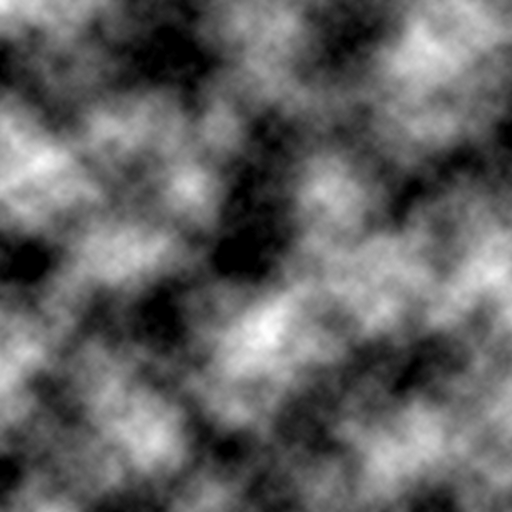
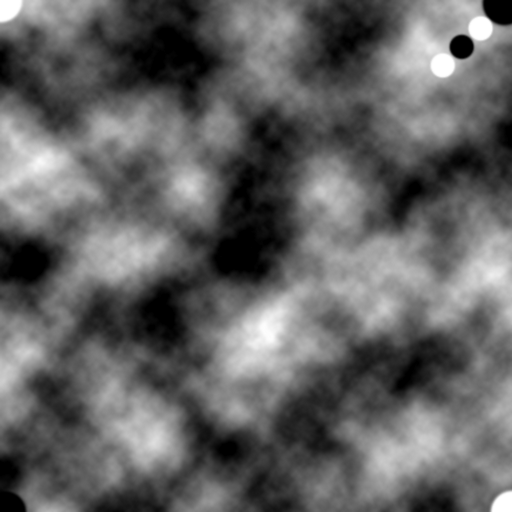
fixy do minimapy

diff --git a/src/hud/window/minimap/MiniMapPanel.cpp b/src/hud/window/minimap/MiniMapPanel.cpp
@@ -17,17 +17,24 @@ void MiniMapPanel::createEmpty() {
 	IntVector2 size = spr->GetSize();
 	Enviroment* env = Game::get()->getEnviroment();
 	uint32_t* data = (uint32_t*)minimap->GetData();
+	int a =minimap->GetHeight();
+
 	int idR = 0;
 	float div = 5;
 	float dy = size.y_;
 	float dx = size.x_;
-	for (short y = 0; y < dy; ++y) {
-		for (short x = 0; x < dx; ++x) {
-			float val = env->getGroundHeightPercent((dy - 1 - y) / dy, x / dx, div);
 
+	float xinc = 1.0f / (size.x_ - 1);
+	float yinc = 1.0f / (size.y_ - 1);
+
+	for (short y = size.y_; y > 0; --y) {
+		for (short x = 0; x < size.x_; ++x) {
+			float val = env->getGroundHeightPercent(y * yinc, x * xinc, div);
+			//std::cout << val << " ";
 			*(data + idR) = 0xFF003000 + unsigned(val) * 0X100;
 			++idR;
 		}
+		//std::cout << std::endl;
 	}
 
 	text->SetData(minimap);

diff --git a/src/camera/FreeCameraBehave.cpp b/src/camera/FreeCameraBehave.cpp
@@ -16,7 +16,7 @@ FreeCameraBehave::~FreeCameraBehave() {
 
 void FreeCameraBehave::translate(bool cameraKeys[], int wheel, float timeStep, float min) {
 	if (cameraKeys[0]) {
-		cameraNode->Translate(Urho3D::Vector3::FORWARD * timeStep);
+		cameraNode->Translate(Urho3D::Vector3::FORWARD * timeStep*5);
 		changed = true;
 	}
 	if (cameraKeys[1]) {
@@ -24,11 +24,11 @@ void FreeCameraBehave::translate(bool cameraKeys[], int wheel, float timeStep, f
 		changed = true;
 	}
 	if (cameraKeys[2]) {
-		cameraNode->Translate(Urho3D::Vector3::LEFT * timeStep);
+		cameraNode->Translate(Urho3D::Vector3::LEFT * timeStep*3);
 		changed = true;
 	}
 	if (cameraKeys[3]) {
-		cameraNode->Translate(Urho3D::Vector3::RIGHT * timeStep);
+		cameraNode->Translate(Urho3D::Vector3::RIGHT * timeStep*3);
 		changed = true;
 	}
 }

diff --git a/src/simulation/env/Enviroment.cpp b/src/simulation/env/Enviroment.cpp
@@ -123,7 +123,8 @@ double Enviroment::getGroundHeightAt(double x, double z) {
 float Enviroment::getGroundHeightPercent(float y, float x, float div) {
 	float scale = terrian->GetSpacing().y_;
 	Vector3 a = Vector3(x * BUCKET_GRID_SIZE - BUCKET_GRID_SIZE / 2, 0,
-		y * BUCKET_GRID_SIZE - BUCKET_GRID_SIZE / 2);
+	                    y * BUCKET_GRID_SIZE - BUCKET_GRID_SIZE / 2);
+	//std::cout << y << " " << x << "|";
 	return terrian->GetHeight(a) / scale / div;
 }
 

diff --git a/src/Main.cpp b/src/Main.cpp
@@ -44,7 +44,7 @@ void Main::load() {
 	case 0:
 		{
 		hud->resetLoading();
-		levelBuilder->createScene(1);
+		levelBuilder->createScene(0);
 		}
 		break;
 	case 1:
